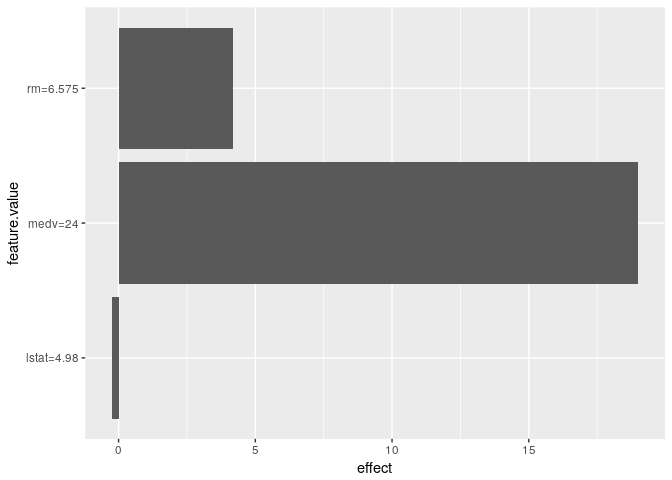
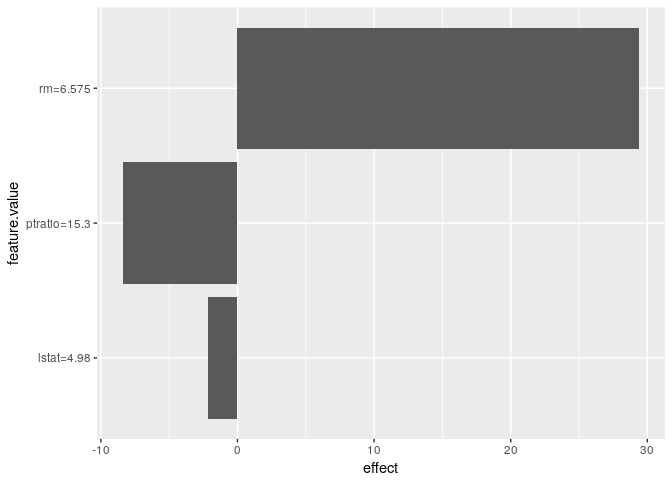
replaces predict.args with predict.fun'

diff --git a/README.md b/README.md
@@ -49,26 +49,26 @@ imp = FeatureImp$new(model, loss = "mae")
 plot(imp)
 ```
 
-![](README_files/figure-markdown_github-ascii_identifiers/unnamed-chunk-3-1.png)
+![](README_files/figure-markdown_github/unnamed-chunk-3-1.png)
 
 ``` r
 imp$results
 ```
 
     ##    feature original.error permutationError importance
-    ## 1    lstat       1.004678         4.235347   4.215628
-    ## 2       rm       1.004678         3.273892   3.258649
-    ## 3     crim       1.004678         1.731467   1.723405
-    ## 4  ptratio       1.004678         1.729005   1.720955
-    ## 5      nox       1.004678         1.661731   1.653994
-    ## 6      dis       1.004678         1.653906   1.646205
-    ## 7    indus       1.004678         1.608825   1.601335
-    ## 8      age       1.004678         1.378753   1.372334
-    ## 9      tax       1.004678         1.360375   1.354041
-    ## 10   black       1.004678         1.246488   1.240685
-    ## 11     rad       1.004678         1.161532   1.156124
-    ## 12      zn       1.004678         1.061880   1.056936
-    ## 13    chas       1.004678         1.034714   1.029897
+    ## 1    lstat      0.9876488         4.233008   4.285945
+    ## 2       rm      0.9876488         3.712950   3.759383
+    ## 3      dis      0.9876488         1.656546   1.677263
+    ## 4     crim      0.9876488         1.653230   1.673904
+    ## 5      nox      0.9876488         1.637037   1.657509
+    ## 6  ptratio      0.9876488         1.580299   1.600061
+    ## 7    indus      0.9876488         1.468366   1.486728
+    ## 8      age      0.9876488         1.283689   1.299742
+    ## 9      tax      0.9876488         1.244533   1.260097
+    ## 10   black      0.9876488         1.238134   1.253618
+    ## 11     rad      0.9876488         1.109522   1.123398
+    ## 12      zn      0.9876488         1.092671   1.106336
+    ## 13    chas      0.9876488         1.014975   1.027668
 
 ### Let"s build a single tree from the randomForest predictions! (Tree surrogate)
 
@@ -77,7 +77,7 @@ tree = TreeSurrogate$new(model, maxdepth = 2)
 plot(tree)
 ```
 
-![](README_files/figure-markdown_github-ascii_identifiers/unnamed-chunk-4-1.png)
+![](README_files/figure-markdown_github/unnamed-chunk-4-1.png)
 
 ### How does lstat influence the prediction on average? (Partial dependence plot)
 
@@ -86,7 +86,7 @@ pdp.obj = PartialDependence$new(model, feature = "lstat")
 plot(pdp.obj)
 ```
 
-![](README_files/figure-markdown_github-ascii_identifiers/unnamed-chunk-5-1.png)
+![](README_files/figure-markdown_github/unnamed-chunk-5-1.png)
 
 ### How does lstat influence the individual predictions? (ICE)
 
@@ -95,7 +95,7 @@ ice.curves = Ice$new(model, feature = "lstat")
 plot(ice.curves) 
 ```
 
-![](README_files/figure-markdown_github-ascii_identifiers/unnamed-chunk-6-1.png)
+![](README_files/figure-markdown_github/unnamed-chunk-6-1.png)
 
 ### Explain a single prediction with a local linear model. (LIME)
 
@@ -105,15 +105,15 @@ lime.explain$results
 ```
 
     ##               beta x.recoded    effect x.original feature feature.value
-    ## rm       4.2445268     6.575 27.907764      6.575      rm      rm=6.575
-    ## ptratio -0.5224666    15.300 -7.993738       15.3 ptratio  ptratio=15.3
-    ## lstat   -0.4287899     4.980 -2.135374       4.98   lstat    lstat=4.98
+    ## rm       4.4692948     6.575 29.385614      6.575      rm      rm=6.575
+    ## ptratio -0.5477636    15.300 -8.380784       15.3 ptratio  ptratio=15.3
+    ## lstat   -0.4313727     4.980 -2.148236       4.98   lstat    lstat=4.98
 
 ``` r
 plot(lime.explain)
 ```
 
-![](README_files/figure-markdown_github-ascii_identifiers/unnamed-chunk-7-1.png)
+![](README_files/figure-markdown_github/unnamed-chunk-7-1.png)
 
 ### Explain a single prediction with game theory. (Shapley)
 
@@ -122,26 +122,26 @@ shapley.explain = Shapley$new(model, x.interest = X[1, ])
 shapley.explain$results
 ```
 
-    ##    feature           phi      phi.var featureValue
-    ## 1      age -0.0850019791  0.333944689 crim=0.00632
-    ## 2    black -0.0008046753  0.267453217        zn=18
-    ## 3     chas -0.0240226667  0.009907358   indus=2.31
-    ## 4     crim -0.0723403620  1.236298269       chas=0
-    ## 5      dis -0.1753825842  1.089173160    nox=0.538
-    ## 6    indus  0.7402716277  1.556442963     rm=6.575
-    ## 7    lstat  3.7001500745 19.387675029     age=65.2
-    ## 8      nox -0.1974995303  0.727310327     dis=4.09
-    ## 9  ptratio  0.7285225750  1.220922649        rad=1
-    ## 10     rad -0.4722923333  0.407054214      tax=296
-    ## 11      rm -0.0752455000  7.788278183 ptratio=15.3
-    ## 12     tax -0.1853100000  0.393279176  black=396.9
-    ## 13      zn -0.0950710000  0.042044428   lstat=4.98
+    ##    feature          phi      phi.var featureValue
+    ## 1      age -0.173130708  0.253650085 crim=0.00632
+    ## 2    black  0.054638212  0.233187939        zn=18
+    ## 3     chas -0.003419667  0.005878521   indus=2.31
+    ## 4     crim -0.466446658  1.823447917       chas=0
+    ## 5      dis -0.256641342  1.762279777    nox=0.538
+    ## 6    indus  0.433310952  0.751072303     rm=6.575
+    ## 7    lstat  2.987843211 19.500815533     age=65.2
+    ## 8      nox -0.270343503  0.759897094     dis=4.09
+    ## 9  ptratio  0.581080286  0.615308440        rad=1
+    ## 10     rad -0.195727206  0.098238247      tax=296
+    ## 11      rm -0.879252628 18.024706110 ptratio=15.3
+    ## 12     tax -0.057217190  0.269396266  black=396.9
+    ## 13      zn  0.202248909  0.134069091   lstat=4.98
 
 ``` r
 plot(shapley.explain)
 ```
 
-![](README_files/figure-markdown_github-ascii_identifiers/unnamed-chunk-8-1.png)
+![](README_files/figure-markdown_github/unnamed-chunk-8-1.png)
 
 Python Implementation
 =====================
